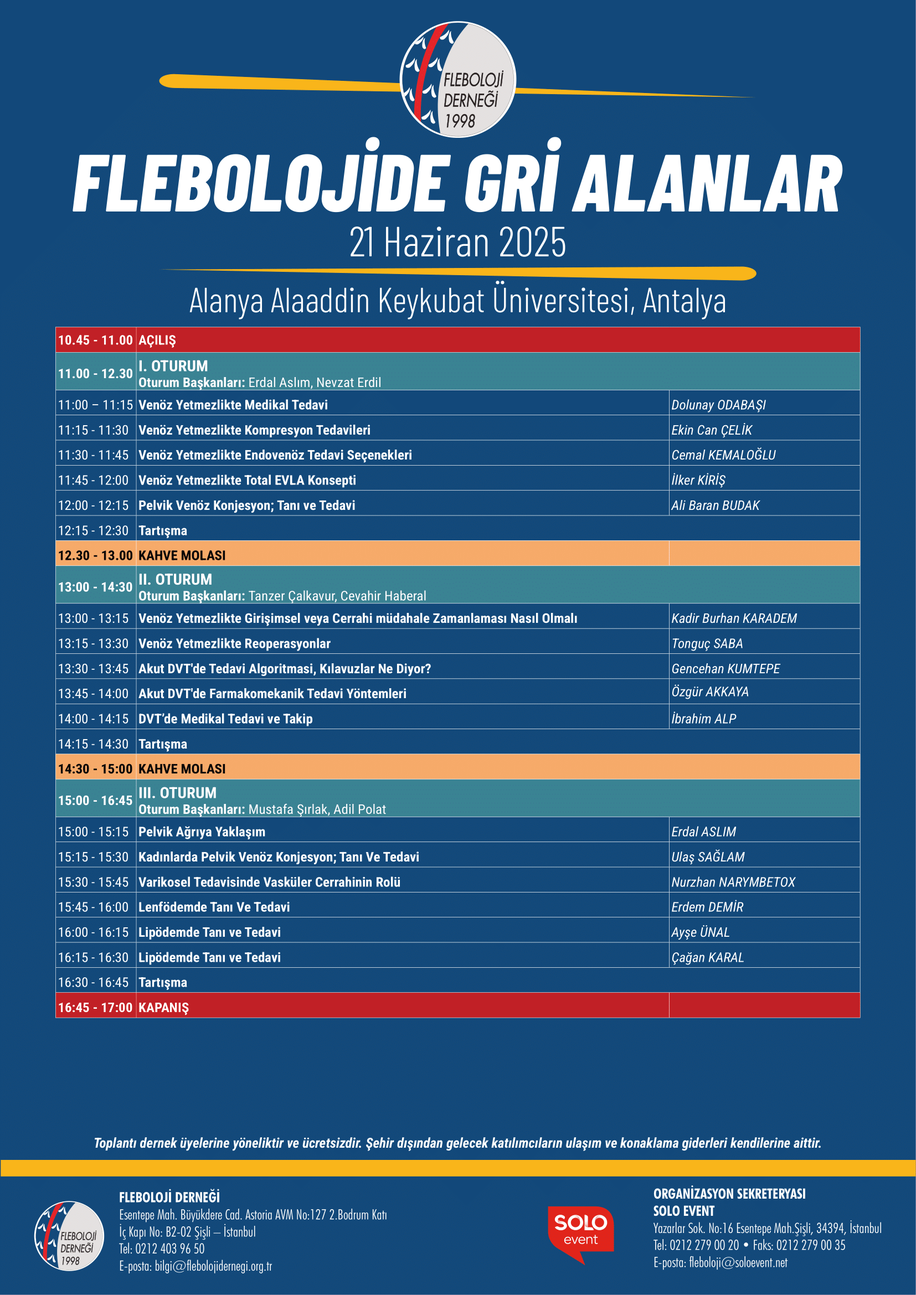
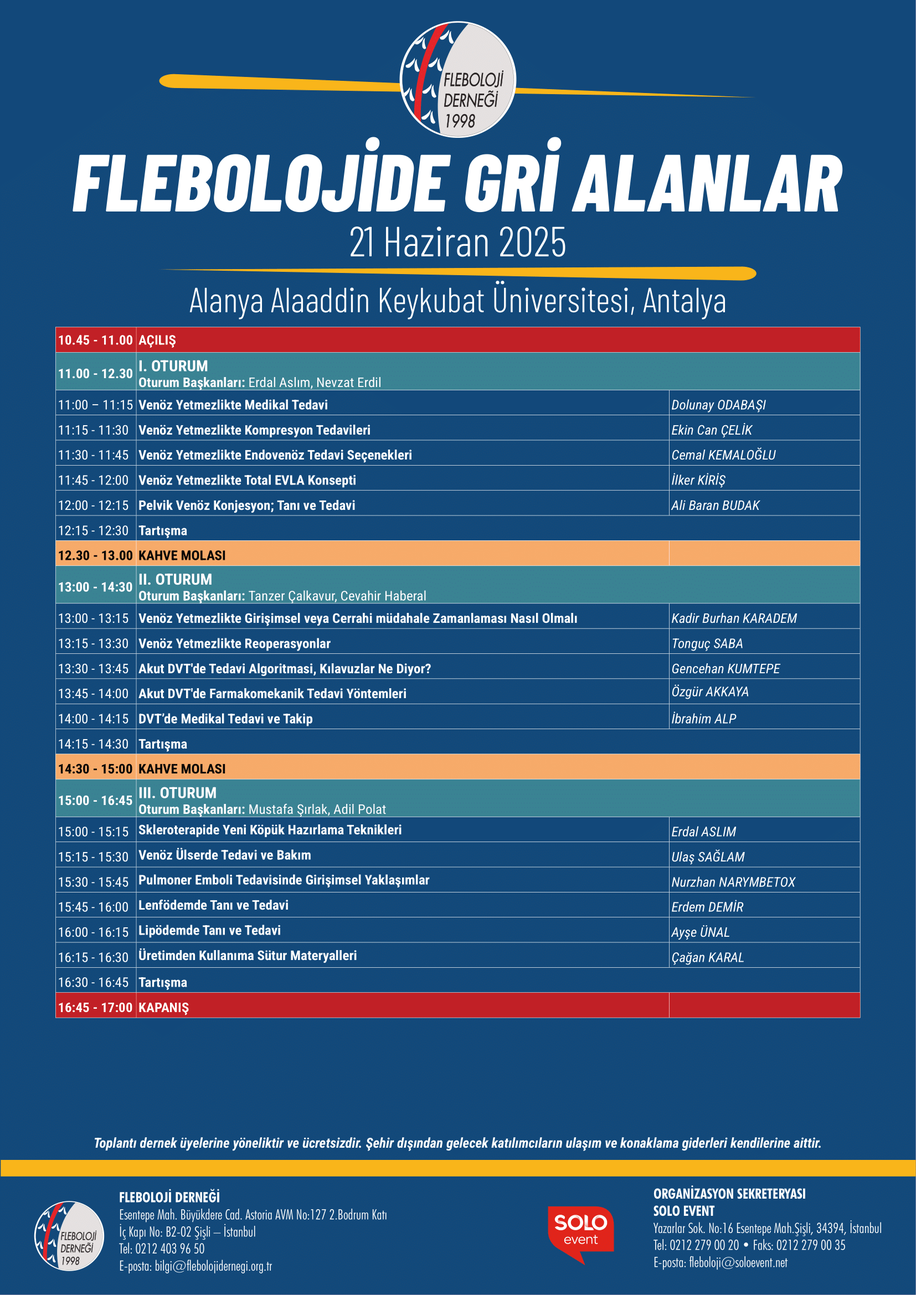
program revize edildi.

Changed region(s): [[0.1542, 0.6242, 0.4625, 0.749]]

diff --git a/duyurular/flebolojide-gri-alanlar-2025-alanya.php b/duyurular/flebolojide-gri-alanlar-2025-alanya.php
@@ -37,7 +37,7 @@
                                 </div>
                                 <div class="td-post-content">
                                     <img src="../doc/duyurular/alanya-kare.jpg">
-                                    <img src="../doc/duyurular/alanya-program.png">
+                                    <img src="../doc/duyurular/alanya-program.png?v=12345">
 
                                 </div>
                                 <footer>
